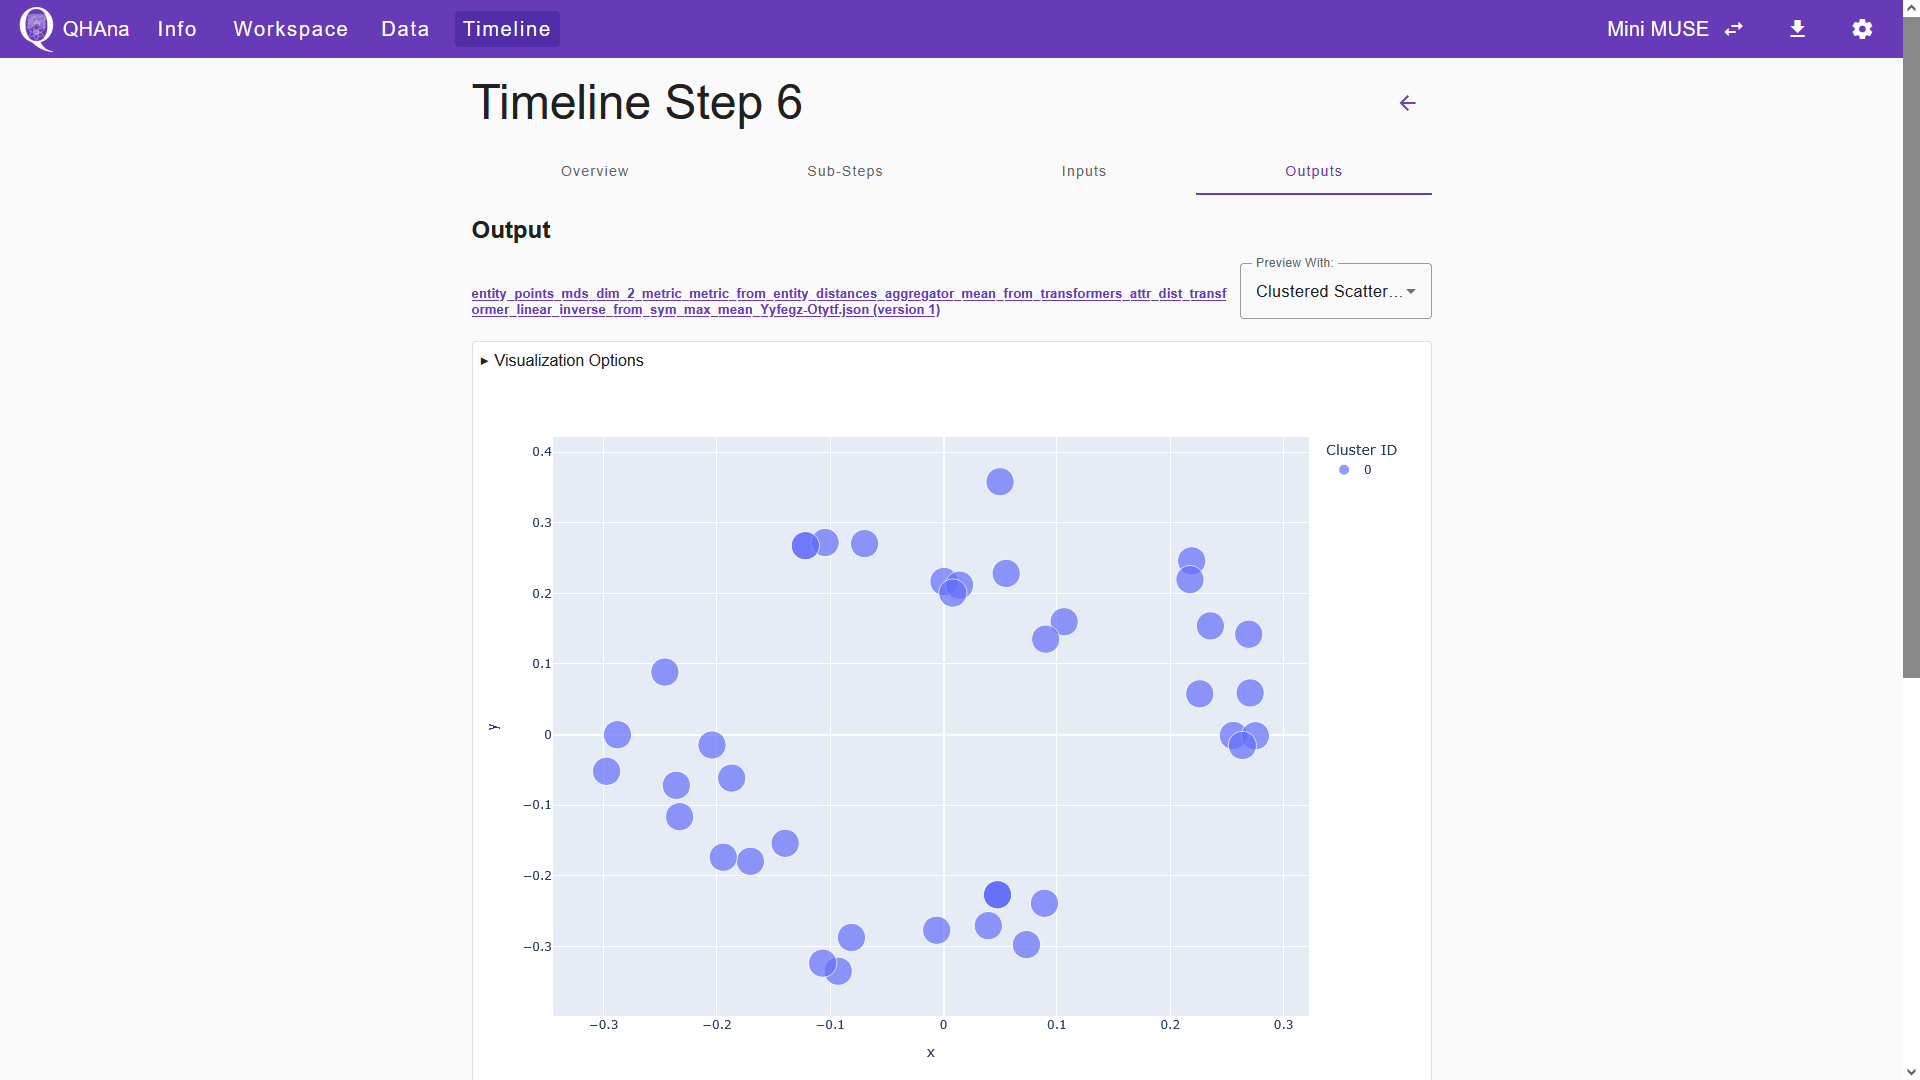
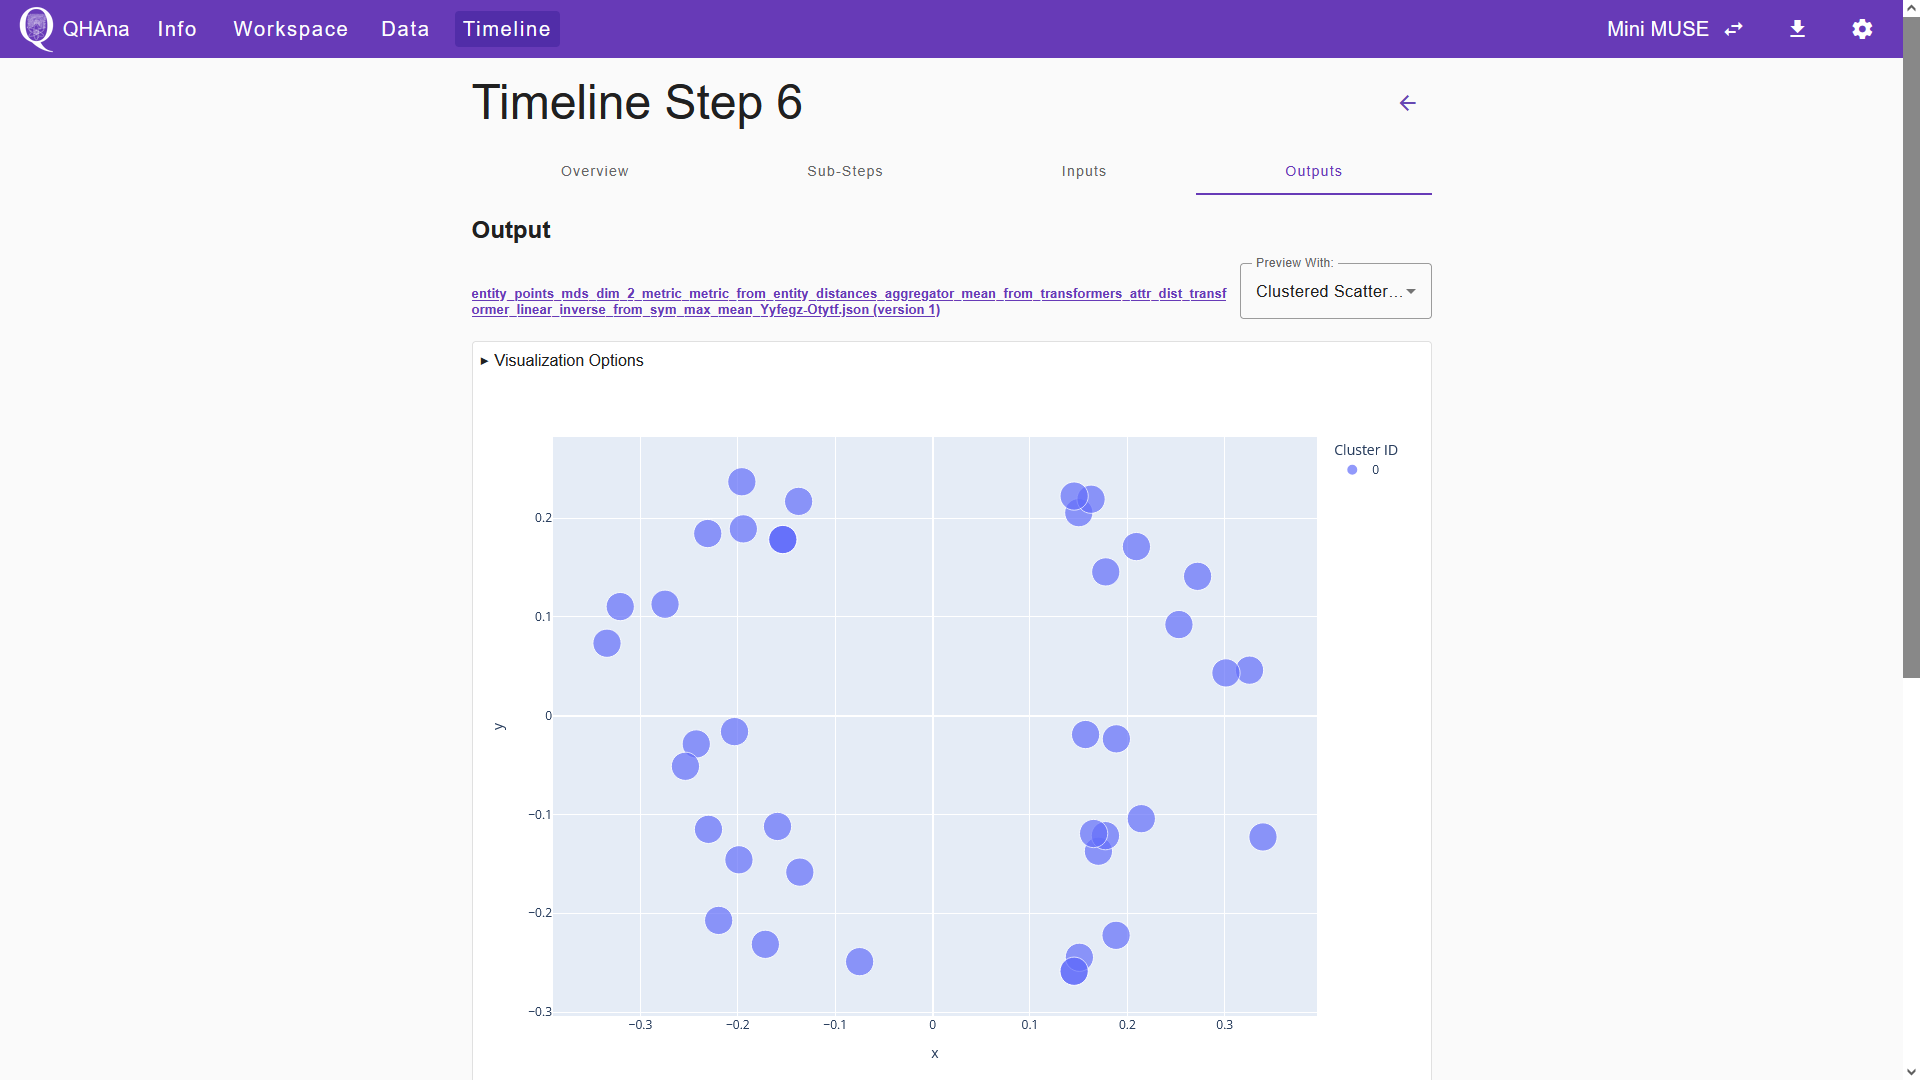
Improvements to Mini MUSE workflow description
- Changed Visualization section to display the intended use cases of the visualization plugins more accurately.
- Added dedicated section to showcase repeated process of same data.

diff --git a/docs/muse.md b/docs/muse.md
@@ -139,47 +139,58 @@ For instance, you can enter "clustering" to filter for clustering plugins.
 
 For this tutorial we choose the "Classical k Means" plugin.
 Choose the file containing the entity points as an input.
-Tick the "Visualize" box to generate a HTML file displaying the clustered data.
+Tick the "Visualize" box to generate an HTML file displaying the clustered data.
 Submitting creates two files:
 The HTML file to visualize the clusters and a JSON file containing cluster labels for each entity.
 
 ![The filled in "Classical k Means" plugin UI.](images/muse-workflow-classical-k-means-inputs.png)
 
-We can generate different results by processing the same data another time.
-Now we use the "Classical k Medoids" plugin to process the same entity points once again.
-To generate four clusters this time, change the parameter "Number of Clusters" to 4.
-Upon submission, the plugin generates a JSON file with different labels for the entities.
-
-![The filled in "Classical k Medoids" plugin UI.](images/muse-workflow-classical-k-medoids-inputs.png)
-
 ### Visualizing the results
 
-To visualize the clusters, we can use the "Clustered Scatter Plot Visualization" plugin.
-Select the plugin in the workspace and choose the JSON file containing the entity points in the corresponding input field.
-This will automatically collapse the "Visualization Options" (i.e., the plugin input fields) to display a preview of the entity points.
-Expand "Visualization Options" and choose one of the files that contain the cluster labels in the "Cluster URL" input field.
-Since we used both the "Classical k Means" and the "Classical k Medoids", we have two options.
-In this tutorial we will choose the file generated by the "Classical k Medoids".
-Choosing the labels will show a preview of the entity points.
-Now the entity points are colored according to their cluster labels.
-To store the plot, expand "Visualization Options" once again and click "Submit".
+We now finished processing the data and can visualize the results.
+Switch to the "Outputs" tab of the timeline step.
+Here we can see the two created output files.
+The first file is the JSON file containing the entity point labels.
+We can visualize the clustered entity points by selecting "Clustered Scatter Plot Visualization" in the "Preview With:" field.
+This will open a plugin interface below the title of the JSON file.
+Choose the corresponding set of entity points in the "Entity Point URL" field of the plugin interface.
+After choosing the file, the plugin interface will automatically show a preview of the clustered entity points.
+Note that this way of visualizing the results can always be done, even when the "Visualize" box is not ticked in the respective processing step.
 
-![The preview shown in the "Clustered Scatter Plot Visualization" plugin UI.](images/muse-workflow-clustered-scatter-plot-preview.png)
+![The preview of the clustered entity points.](images/muse-workflow-classical-k-means-output-preview.png)
 
-We can find the stored plot in the "Data" tab among the other files generated by the plugins.
-Enter "plot" in the search bar to filter for the plots of the clustered data.
-In this experiment there are two plots:
-The first one was generated when running the "Classical k Means" plugin, since we ticked the "Visualize" box before submitting.
-The second one is the plot that we generated with the "Clustered Scatter Plot Visualization" plugin.
+Below the JSON file, we can see an HTML file that visualizes the clustered data points.
+Note that this HTML file only gets generated when the "Vizualize" box is ticked in the processing step.
+With this file, we can export the visualized data as an HTML file or as a PNG.
+Click the title of the HTML file to open the output details page.
 
-![The list of generated plots in the "Data" tab.](images/muse-workflow-experiment-data-page.png)
+![The output details page of the HTML file.](images/muse-workflow-output-data-details-page.png)
 
-To export a plot, you can click "Download as File".
+To export the plot, click "Download as File".
 This will open a seperate tab in your browser in which the plot is displayed.
 Clicking the small camera icon in the menu on the top right will download the plot as a PNG.
 Alternatively, you can download that page as an HTML.
 
-![The HTML page generated by the "Clustered Scatter Plot Visualization" plugin.](images/muse-workflow-cluster-plot.png)
+![The generated HTML file in a new tab.](images/muse-workflow-html-cluster-plot.png)
+
+```{Note}
+As an alternative to using visualization plugins in the "Outputs" tab, we can select a visualization plugin in the workspace and use it to process the results.
+Submitting a visualization plugin with a set of data points and their corresponding labels will generate an HTML file, which will be stored in the Experiment Data tab.
+Note that this is usually not necessary, as you can already generate such an HTML file by ticking the "Visualize" box in the final processing step.
+```
+
+### Processing data multiple times
+
+We can generate different results by processing the same data another time.
+Now we use the "Classical k Medoids" plugin to process the same entity points once again.
+To generate three clusters this time, change the parameter "Number of Clusters" to 3.
+Once again, tick the "Visualize" box to generate an HTML file in addition to the entity labels.
+
+![The filled in "Classical k Medoids" plugin UI.](images/muse-workflow-classical-k-medoids-inputs.png)
+
+After submitting, switch to the "Outputs" tab and scroll down to see a preview of the result.
+
+![The preview of the clustered entity points.](images/muse-workflow-classical-k-medoids-output-preview.png)
 
 ## Using the NISQ-Analyzer plugin
 
